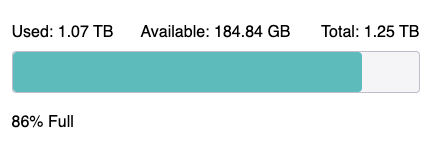
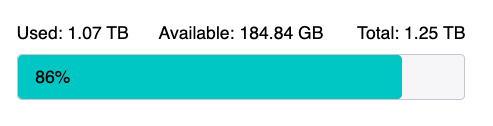
Update device progress percentage (#280)

diff --git a/src/Progress/__tests__/DeviceProgressBar.test.jsx b/src/Progress/__tests__/DeviceProgressBar.test.jsx
@@ -15,8 +15,9 @@ describe('<DeviceProgressBar />', () => {
             expect(container.getElementsByTagName('span')[0]).toHaveTextContent('Used: 1.07 TB');
             expect(container.getElementsByTagName('span')[1]).toHaveTextContent('Available: 184.84 GB');
             expect(container.getElementsByTagName('span')[2]).toHaveTextContent('Total: 1.25 TB');
-            expect(container.getElementsByTagName('span')[3]).toHaveTextContent('86% Full');
+            expect(container.querySelector('.progress-bar-fill').querySelector('span').innerHTML).toBe('86%');
         });
+
         it('tests when 0 is passed', () => {
             const { container } = render(<DeviceProgressBar
                 used={0}
@@ -25,6 +26,58 @@ describe('<DeviceProgressBar />', () => {
                 capacity={0}
             />);
             expect(container.getElementsByTagName('span')[0]).toHaveTextContent('Used: 0 B');
+        });
+
+        describe('capacity', () => {
+            it('renders capacity within the progress-bar by default', () => {
+                const { container } = render(<DeviceProgressBar
+                    used={0}
+                    available={0}
+                    total={0}
+                    capacity='73%'
+                />);
+
+                expect(container.querySelector('.progress-bar-bottom-text')).not.toBeInTheDocument();
+                expect(container.querySelector('.progress-bar-fill').innerHTML).toMatch(/73%/);
+            });
+
+            it('renders capacity below the bar when capacityLocation is "below"', () => {
+                const { container } = render(<DeviceProgressBar
+                    used={0}
+                    available={0}
+                    total={0}
+                    capacity='73%'
+                    capacityLocation='below'
+                />);
+
+                expect(container.querySelector('.progress-bar-fill').querySelector('span')).not.toBeInTheDocument();
+                expect(container.querySelector('.progress-bar-bottom-text').innerHTML).toMatch(/73%/);
+            });
+        });
+
+        describe('capacity sub-text', () => {
+            it('renders no subtext by default', () => {
+                const { container } = render(<DeviceProgressBar
+                    used={0}
+                    available={0}
+                    total={0}
+                    capacity={0}
+                />);
+
+                expect(container.querySelector('.progress-bar-fill').querySelector('span').innerHTML).toBe('0');
+            });
+
+            it('renders custom capacity subtext when provided', () => {
+                const { container } = render(<DeviceProgressBar
+                    used={0}
+                    available={0}
+                    total={0}
+                    capacity={0}
+                    capacitySubText='of capacity'
+                />);
+
+                expect(container.querySelector('.progress-bar-fill').querySelector('span').innerHTML).toBe('0 of capacity');
+            });
         });
     });
 });

diff --git a/src/Progress/DeviceProgressBar.tsx b/src/Progress/DeviceProgressBar.tsx
@@ -18,8 +18,19 @@ export interface DeviceProgressProps {
     total: number;
     /**
      * This is to set the capacity for the device progress bar.
+     * This should be a string percentage (e.g. 10%) to accurately
+     * generate the width of the progress (via css).
      */
     capacity: string;
+    /**
+     * This is the text to display after the capacity. By default, this value is empty.
+     */
+    capacitySubText?: string;
+    /**
+     * This is the location, respective to the progress bar, in which to display the capacity text.
+     * The default is "inside" the progress bar.
+     */
+    capacityLocation?: 'below' | 'inside';
     /**
      * This is to set the background color of the  progress bar.
      */
@@ -40,7 +51,9 @@ const DeviceProgressBar: React.FC<DeviceProgressProps> = ({
     available,
     total,
     capacity,
-    backgroundColor = customTheme?.colors.saturatedTeal
+    backgroundColor = customTheme?.colors.saturatedTeal,
+    capacitySubText= '',
+    capacityLocation = 'inside'
 }) => {
     const formattedUsed = formatBytes(used);
     const formattedAvailable = formatBytes(available);
@@ -49,6 +62,9 @@ const DeviceProgressBar: React.FC<DeviceProgressProps> = ({
     const usedResult = `${formattedUsed.value} ${formattedUsed.size}`;
     const availableResult = `${formattedAvailable.value} ${formattedAvailable.size}`;
     const totalResult = `${formattedTotal.value} ${formattedTotal.size}`;
+
+    const subTextWithSpace = capacitySubText ? ` ${capacitySubText}` : '';
+    const capacityText = `${capacity}${subTextWithSpace}`;
 
     return (
         <ThemeProvider theme={customTheme}>
@@ -60,11 +76,15 @@ const DeviceProgressBar: React.FC<DeviceProgressProps> = ({
                         <RightText>Total: {totalResult}</RightText>
                     </TopText>
                     <ProgressBar >
-                        <Filler width={capacity} backgroundColor={backgroundColor} />
+                        <Filler width={capacity} backgroundColor={backgroundColor} className='progress-bar-fill'>
+                            {capacityLocation === 'inside' && <span>{capacityText}</span>}
+                        </Filler>
                     </ProgressBar>
-                    <BottomText>
-                        <span>{capacity} Full</span>
-                    </BottomText>
+                    {capacityLocation === 'below' && (
+                        <BottomText className='progress-bar-bottom-text'>
+                            <span>{capacityText}</span>
+                        </BottomText>
+                    )}
                 </>
             </ProgressBarContainer>
         </ThemeProvider>

diff --git a/src/stories/Progress/DeviceProgress.stories.tsx b/src/stories/Progress/DeviceProgress.stories.tsx
@@ -16,18 +16,25 @@ export default {
 const Template: Story<DeviceProgressProps & ComponentPropsWithoutRef<'div'>> = (args) => {
     return (
         <section style={{ display: 'inline-flex' }}>
-            <DeviceProgressBarComponent used={args.used}
-                available={args.available}
-                total={args.total}
-                capacity={args.capacity} />
+            <DeviceProgressBarComponent {...args} />
         </section>
     );
 };
 
-export const DeviceProgressBar = Template.bind({});
-DeviceProgressBar.args = {
+export const DefaultProgressBar = Template.bind({});
+DefaultProgressBar.args = {
     total: 1374389534720,
     used: 1175916642304,
     available: 198472892416,
     capacity: '86%'
+};
+
+export const BarWithCapacityAndSubTextBelow = Template.bind({});
+BarWithCapacityAndSubTextBelow.args = {
+    total: 1374389534720,
+    used: 1175916642304,
+    available: 198472892416,
+    capacity: '86%',
+    capacityLocation: 'below',
+    capacitySubText: 'Full'
 };

diff --git a/src/Progress/deviceProgressBarStyles.ts b/src/Progress/deviceProgressBarStyles.ts
@@ -37,7 +37,12 @@ export const Filler = styled.div<any>(({ width, backgroundColor, theme }) => ({
     borderRadius: 'inherit',
     transition: 'width .2s ease-in',
     width: width,
-    backgroundColor: backgroundColor
+    backgroundColor: backgroundColor,
+    display: 'flex',
+    alignItems: 'center',
+    span: {
+        marginLeft: '1em'
+    }
 }));
 
 export const BottomText = styled.div({

diff --git a/README.md b/README.md
@@ -70,7 +70,7 @@ Upon a new component being added to this table run 'npm run update-readme' for b
 [Modal](https://toyotaresearchinstitute.github.io/lakefront/?path=/docs/lakefront-modal--simple-modal) | <details><summary>Screenshot</summary><img src="src/screenshots/Modal.png"></details> | [ConfirmationModal](https://toyotaresearchinstitute.github.io/lakefront/?path=/docs/lakefront-modal-confirmationmodal--basic-confirm) | <details><summary>Screenshot</summary><img src="src/screenshots/ConfirmationModal.png"></details> | 
 [Page](https://toyotaresearchinstitute.github.io/lakefront/?path=/docs/lakefront-page--page) | <details><summary>Screenshot</summary><img src="src/screenshots/Page.png"></details> | [PlaybackBar](https://toyotaresearchinstitute.github.io/lakefront/?path=/docs/lakefront-playbackbar--playback-bar) | <details><summary>Screenshot</summary><img src="src/screenshots/PlaybackBar.png"></details> |
 [Progress](https://toyotaresearchinstitute.github.io/lakefront/?path=/docs/lakefront-progress-progressbar--progress-bar) | <details><summary>Screenshot</summary><img src="src/screenshots/Progress.png"></details> |  [Circular Progress](https://toyotaresearchinstitute.github.io/lakefront/?path=/docs/lakefront-progress-circularprogress--circular-progress) | <details><summary>Screenshot</summary><img src="src/screenshots/CircularProgress.png"></details> |
-[Device Progress](https://toyotaresearchinstitute.github.io/lakefront/?path=/docs/lakefront-progress-deviceprogress--device-progress-bar) | <details><summary>Screenshot</summary><img src="src/screenshots/DeviceProgress.png"></details> | [Progress Bar](https://toyotaresearchinstitute.github.io/lakefront/?path=/docs/lakefront-progress-progressbar--progress-bar) | <details><summary>Screenshot</summary><img src="src/screenshots/ProgressBar.png"></details> |
+[Device Progress](https://toyotaresearchinstitute.github.io/lakefront/?path=/docs/lakefront-progress-deviceprogress--default-progress-bar) | <details><summary>Screenshot</summary><img src="src/screenshots/DeviceProgress.png"></details> | [Progress Bar](https://toyotaresearchinstitute.github.io/lakefront/?path=/docs/lakefront-progress-progressbar--progress-bar) | <details><summary>Screenshot</summary><img src="src/screenshots/ProgressBar.png"></details> |
 [PropertyList](https://toyotaresearchinstitute.github.io/lakefront/?path=/docs/lakefront-propertylist--property-list) | <details><summary>Screenshot</summary><img src="src/screenshots/PropertyList.png"></details> | [RadioGroup](https://toyotaresearchinstitute.github.io/lakefront/?path=/docs/lakefront-radiogroup--standard-radio-group) | <details><summary>Screenshot</summary><img src="src/screenshots/RadioGroup.png"></details>|
 [RefreshToolBar](https://toyotaresearchinstitute.github.io/lakefront/?path=/docs/lakefront-refreshtoolbar--refresh-toolbar) | <details><summary>Screenshot</summary><img src="src/screenshots/RefreshToolBar.png"></details> | [Select](https://toyotaresearchinstitute.github.io/lakefront/?path=/docs/lakefront-select--select) | <details><summary>Screenshot</summary><img src="src/screenshots/Select.png"></details> |
 [SelectPopover](https://toyotaresearchinstitute.github.io/lakefront/?path=/docs/lakefront-selectpopover--popover) | <details><summary>Screenshot</summary><img src="src/screenshots/SelectPopover.png"></details> | [Snackbar](https://toyotaresearchinstitute.github.io/lakefront/?path=/docs/lakefront-snackbar) | <details><summary>Screenshot</summary><img src="src/screenshots/Snackbar.png"></details> |
